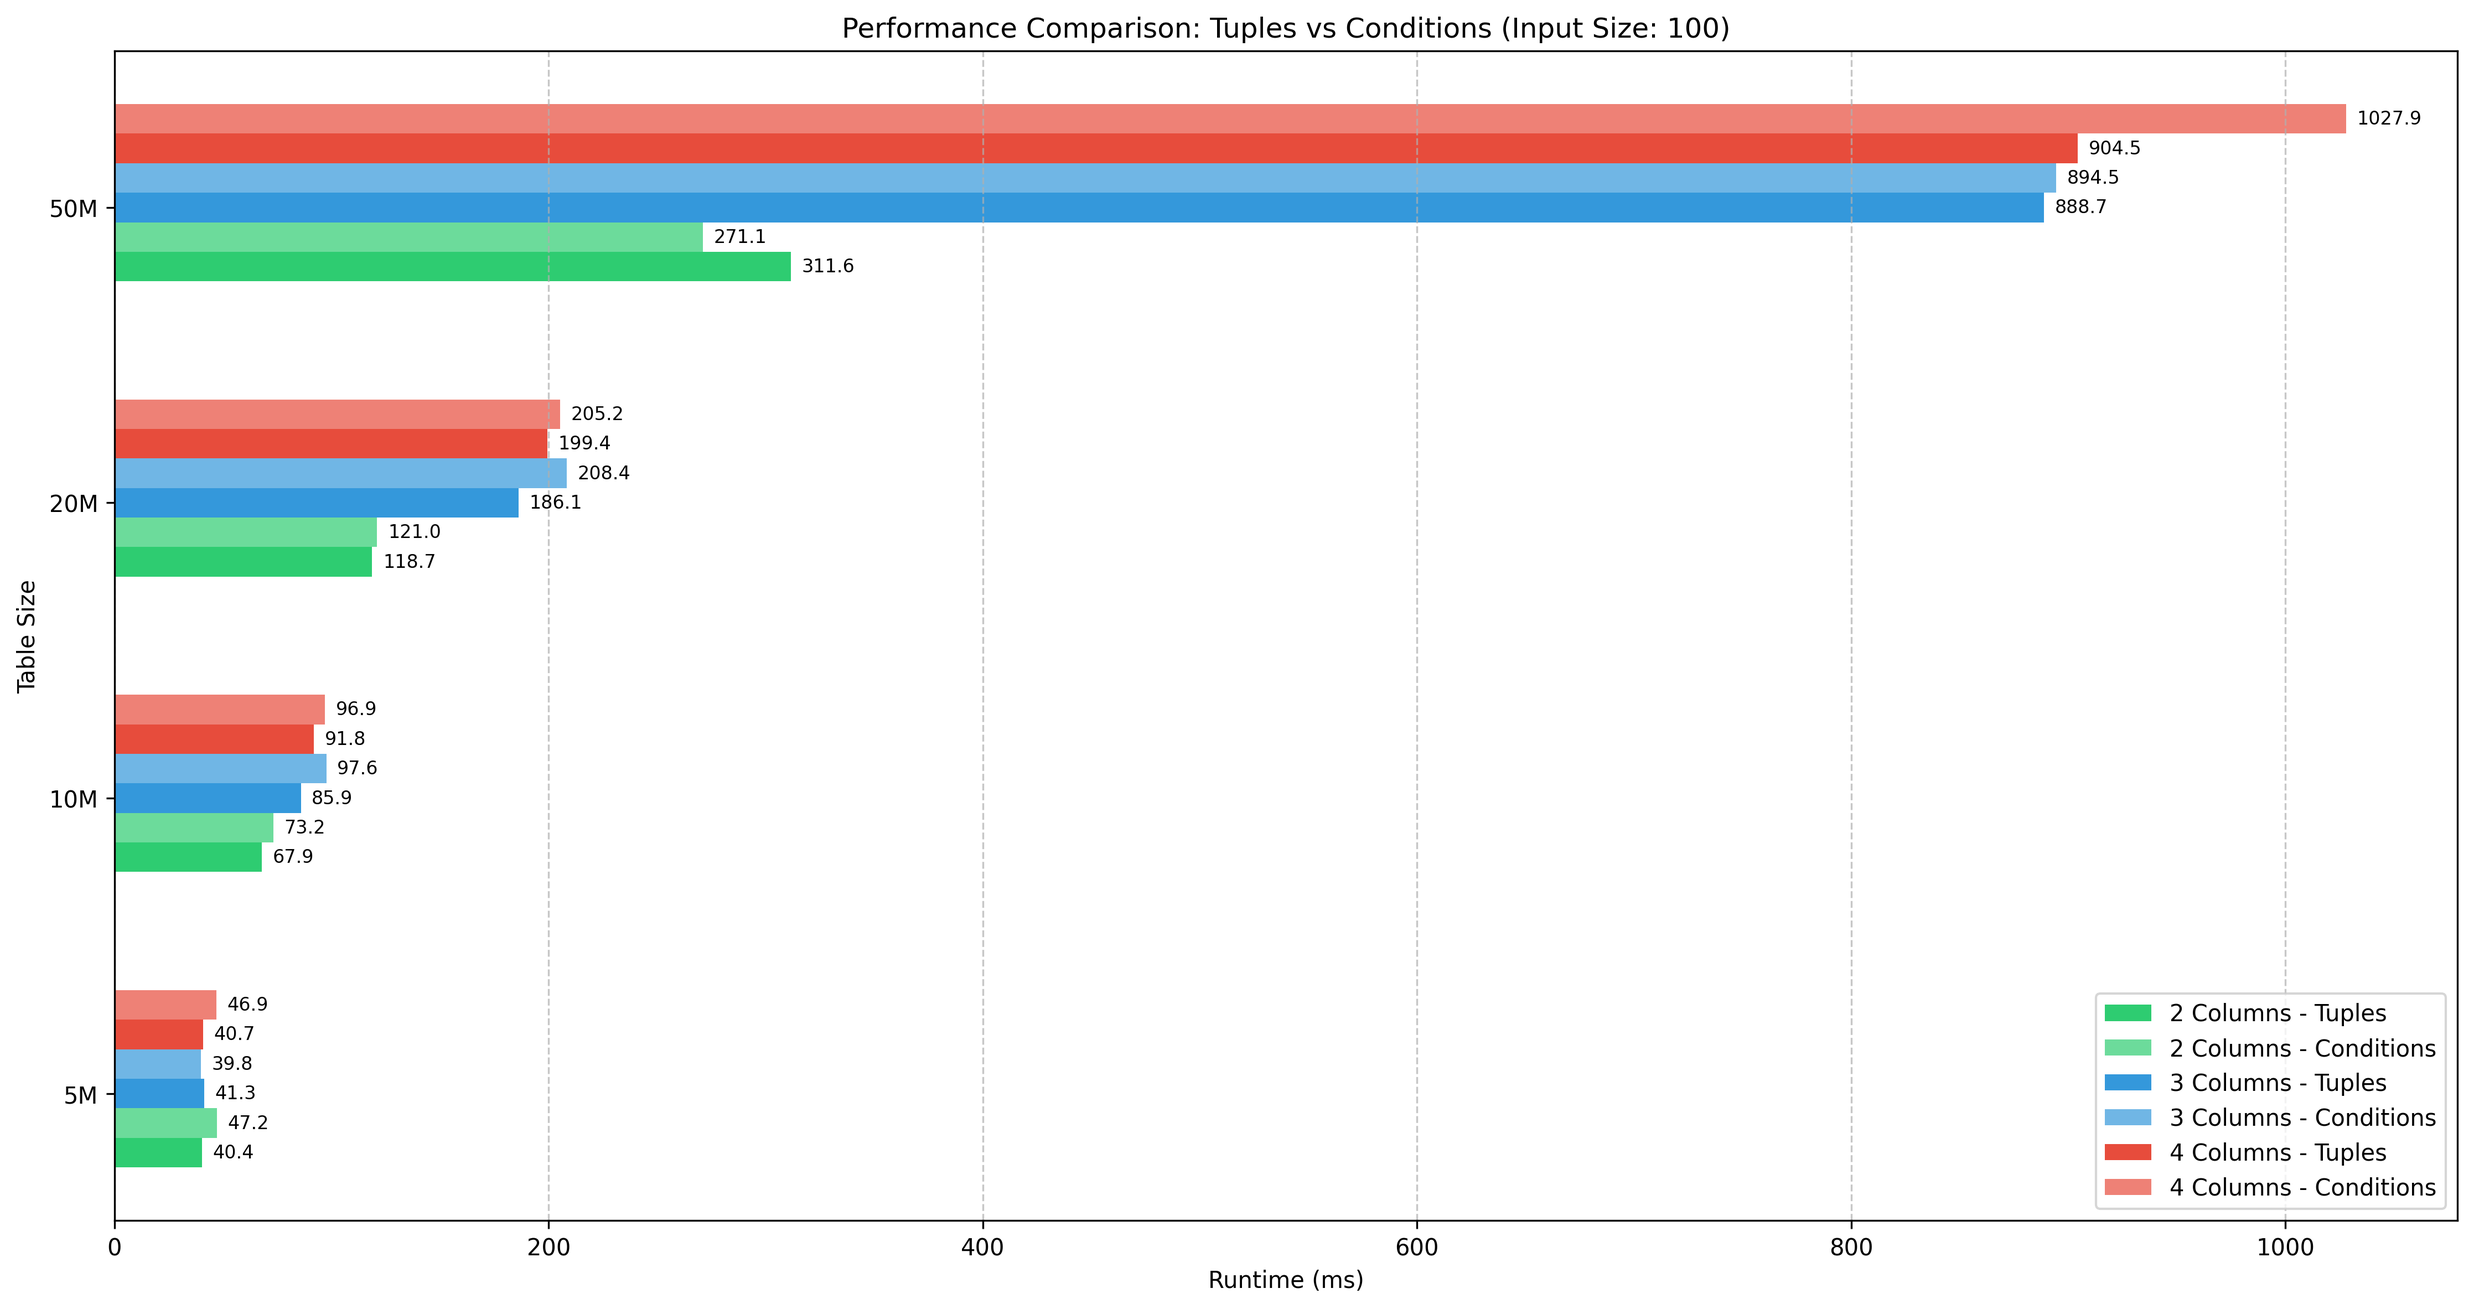
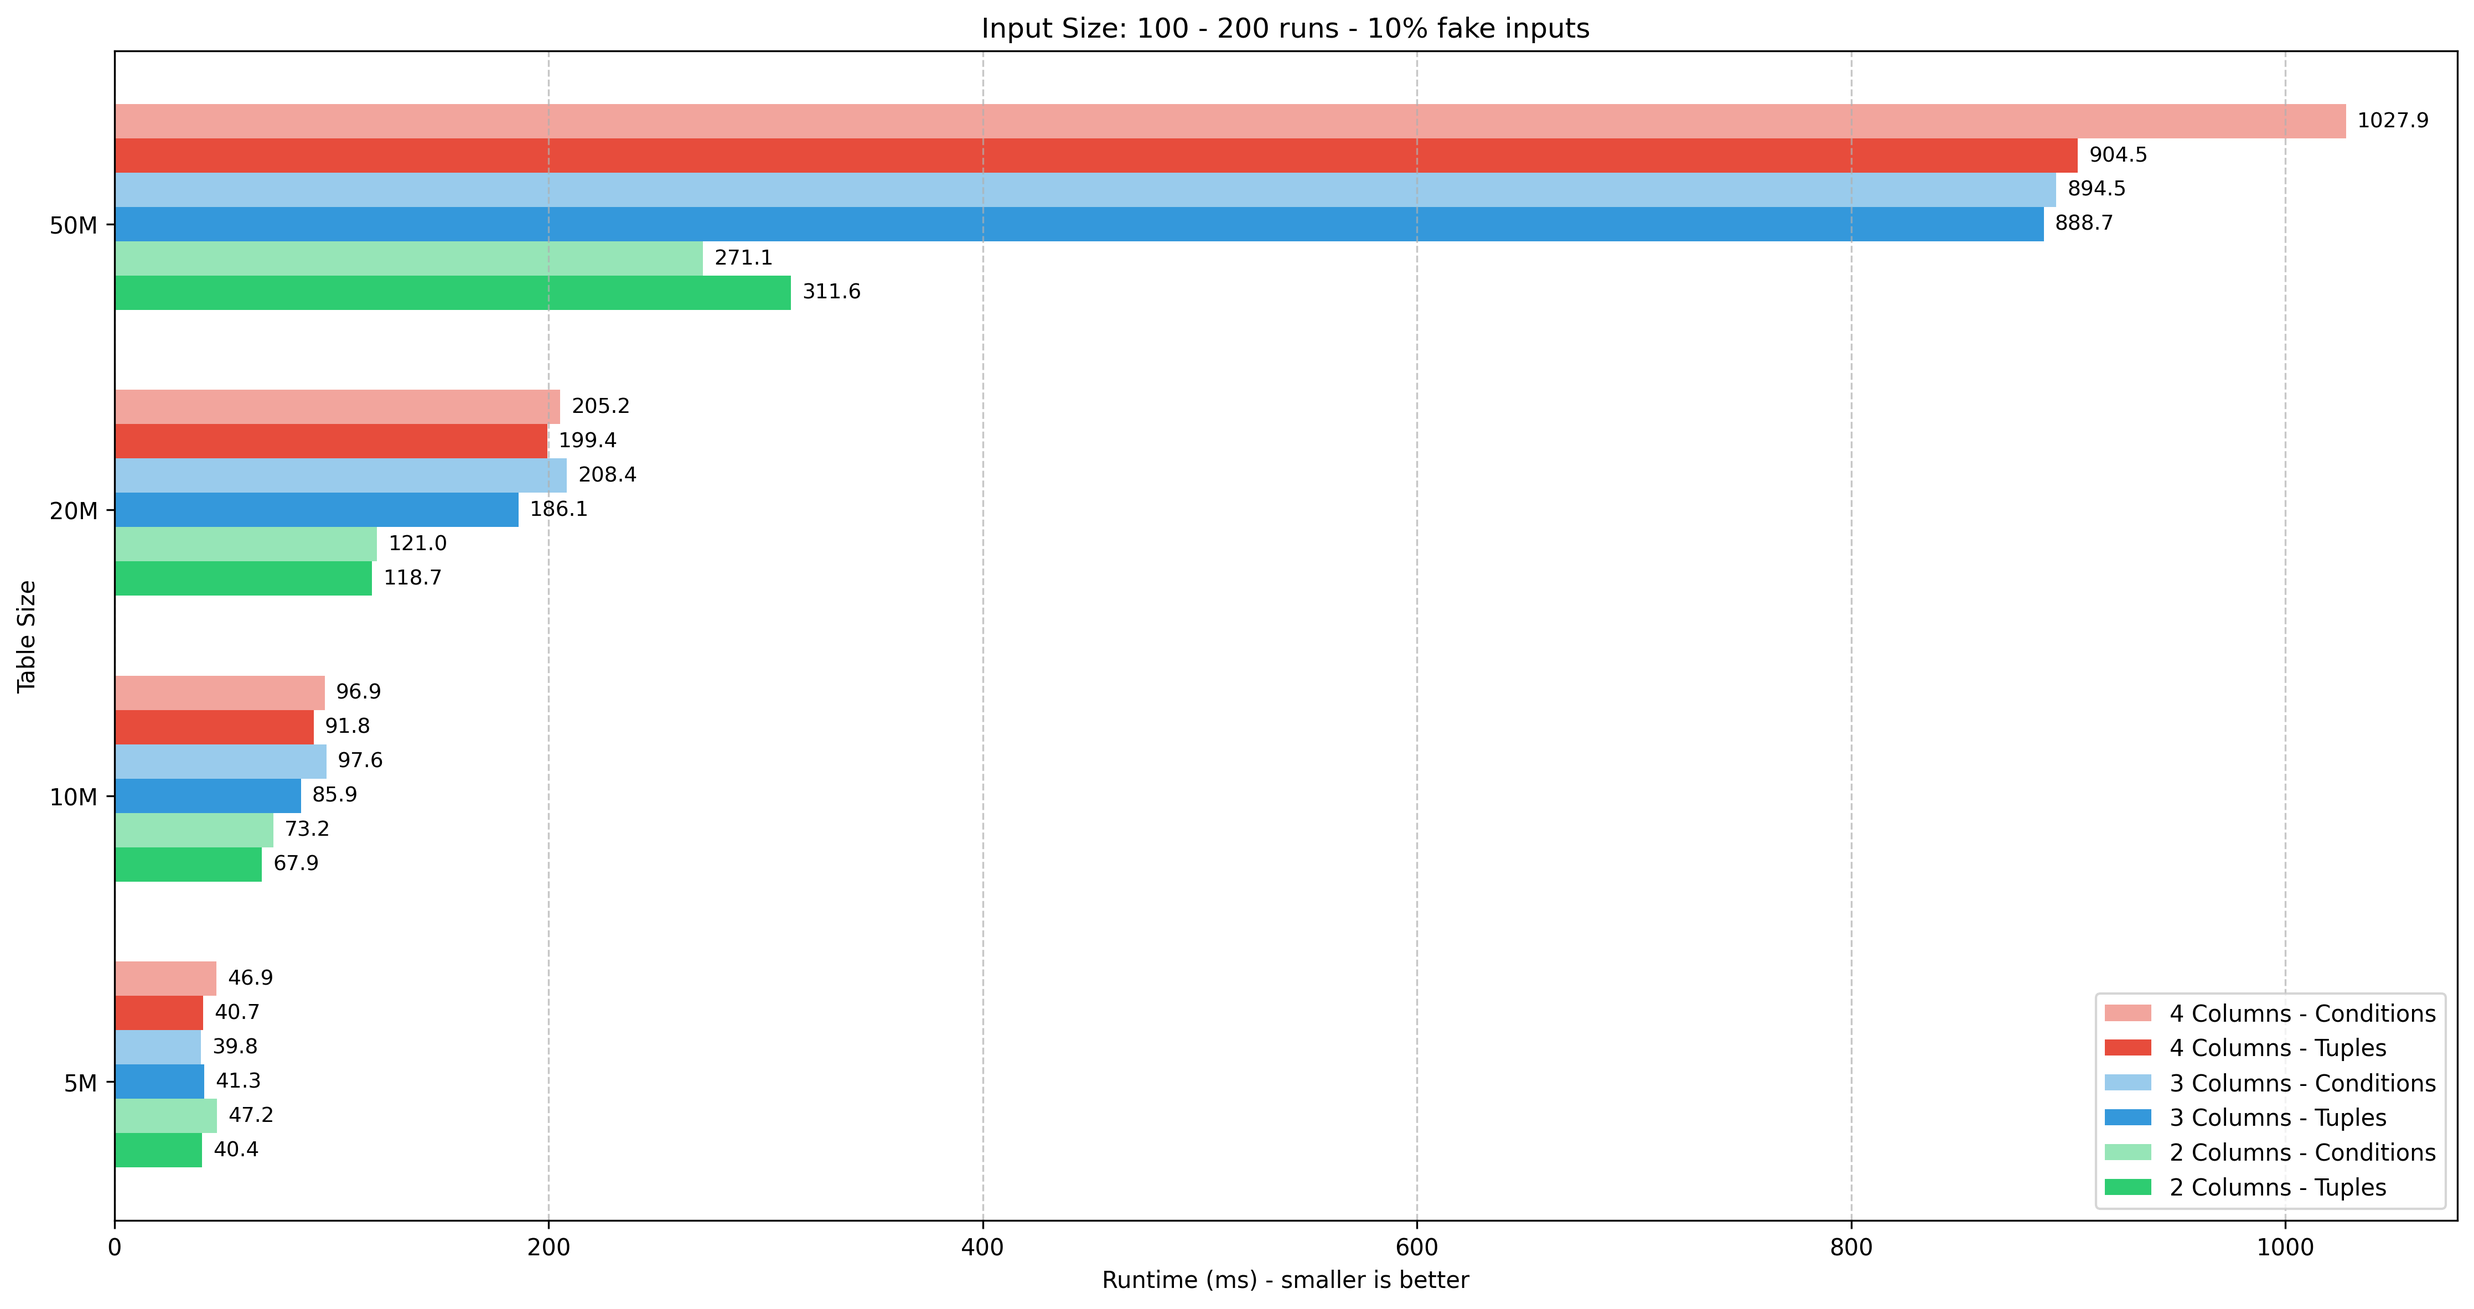
gg

diff --git a/_posts/2025-05-01-tuples-filter-on-multi-columns-with-django-orm.md b/_posts/2025-05-01-tuples-filter-on-multi-columns-with-django-orm.md
@@ -359,79 +359,45 @@ Each following section will show the results for a specific input size (100 / 20
 
 ![100 tuples](/assets/img/posts/2025-05-01-tuples-filter-on-multi-columns-with-django-orm/performance_comparison_input100.png)
 
-![100 tuples](/assets/img/posts/2025-05-01-tuples-filter-on-multi-columns-with-django-orm/plot_experiments_200runs_10fake_100size_2cols.png)
-_Filter on 2 columns_
-
-![100 tuples](/assets/img/posts/2025-05-01-tuples-filter-on-multi-columns-with-django-orm/plot_experiments_200runs_10fake_100size_3cols.png)
-_Filter on 3 columns_
-
-![100 tuples](/assets/img/posts/2025-05-01-tuples-filter-on-multi-columns-with-django-orm/plot_experiments_200runs_10fake_100size_4cols.png)
-_Filter on 4 columns_
-
-### Input size: 200 tuples
-
-![200 tuples](/assets/img/posts/2025-05-01-tuples-filter-on-multi-columns-with-django-orm/plot_experiments_200runs_10fake_200size_2cols.png)
-_Filter on 2 columns_
-
-![200 tuples](/assets/img/posts/2025-05-01-tuples-filter-on-multi-columns-with-django-orm/plot_experiments_200runs_10fake_200size_3cols.png)
-_Filter on 3 columns_
-
-![200 tuples](/assets/img/posts/2025-05-01-tuples-filter-on-multi-columns-with-django-orm/plot_experiments_200runs_10fake_200size_4cols.png)
-_Filter on 4 columns_
-
-### Input size: 500 tuples
-
-![500 tuples](/assets/img/posts/2025-05-01-tuples-filter-on-multi-columns-with-django-orm/plot_experiments_200runs_10fake_500size_2cols.png)
-_Filter on 2 columns_
-
-![500 tuples](/assets/img/posts/2025-05-01-tuples-filter-on-multi-columns-with-django-orm/plot_experiments_200runs_10fake_500size_3cols.png)
-_Filter on 3 columns_
-
-![500 tuples](/assets/img/posts/2025-05-01-tuples-filter-on-multi-columns-with-django-orm/plot_experiments_200runs_10fake_500size_4cols.png)
-_Filter on 4 columns_
-
-### Input size: 1000 tuples
-
-![1000 tuples](/assets/img/posts/2025-05-01-tuples-filter-on-multi-columns-with-django-orm/plot_experiments_200runs_10fake_1000size_2cols.png)
-_Filter on 2 columns_
-
-# Experiment Results
-
-## Input Size: 100
-
 | Columns        | 2                                      |                                        |                                         |                                         | 3                                      |                                        |                                         |                                         | 4                                      |                                        |                                         |                                         |
 | -------------- | -------------------------------------- | -------------------------------------- | --------------------------------------- | --------------------------------------- | -------------------------------------- | -------------------------------------- | --------------------------------------- | --------------------------------------- | -------------------------------------- | -------------------------------------- | --------------------------------------- | --------------------------------------- |
 | **Table size** | 5M                                     | 10M                                    | 20M                                     | 50M                                     | 5M                                     | 10M                                    | 20M                                     | 50M                                     | 5M                                     | 10M                                    | 20M                                     | 50M                                     |
 | **Tuples**     | <span style="color:green">40.37</span> | <span style="color:green">67.86</span> | <span style="color:green">118.68</span> | <span style="color:red">311.60</span>   | <span style="color:green">41.27</span> | <span style="color:green">85.86</span> | <span style="color:green">186.11</span> | <span style="color:green">888.73</span> | <span style="color:green">40.74</span> | <span style="color:green">91.80</span> | <span style="color:green">199.40</span> | <span style="color:green">904.46</span> |
 | **Conditions** | <span style="color:red">47.17</span>   | <span style="color:red">73.25</span>   | <span style="color:red">120.98</span>   | <span style="color:green">271.15</span> | <span style="color:red">39.84</span>   | <span style="color:red">97.60</span>   | <span style="color:red">208.38</span>   | <span style="color:red">894.51</span>   | <span style="color:red">46.88</span>   | <span style="color:red">96.88</span>   | <span style="color:red">205.20</span>   | <span style="color:red">1027.91</span>  |
-| **Gain %**     | <span style="color:red">+16.8%</span>  | <span style="color:red">+7.9%</span>   | <span style="color:red">+1.9%</span>    | <span style="color:green">-13.0%</span> | <span style="color:green">-3.5%</span> | <span style="color:red">+13.7%</span>  | <span style="color:red">+12.0%</span>   | <span style="color:green">-0.6%</span>  | <span style="color:red">+15.1%</span>  | <span style="color:red">+5.5%</span>   | <span style="color:red">+2.9%</span>    | <span style="color:red">+13.6%</span>   |
+| **% Diff**     | <span style="color:red">+16.8%</span>  | <span style="color:red">+7.9%</span>   | <span style="color:red">+1.9%</span>    | <span style="color:green">-13.0%</span> | <span style="color:green">-3.5%</span> | <span style="color:red">+13.7%</span>  | <span style="color:red">+12.0%</span>   | <span style="color:green">-0.6%</span>  | <span style="color:red">+15.1%</span>  | <span style="color:red">+5.5%</span>   | <span style="color:red">+2.9%</span>    | <span style="color:red">+13.6%</span>   |
 
-## Input Size: 200
+### Input size: 200 tuples
+
+![200 tuples](/assets/img/posts/2025-05-01-tuples-filter-on-multi-columns-with-django-orm/performance_comparison_input200.png)
 
 | Columns        | 2                                      |                                        |                                         |                                         | 3                                      |                                         |                                         |                                          | 4                                      |                                         |                                         |                                          |
 | -------------- | -------------------------------------- | -------------------------------------- | --------------------------------------- | --------------------------------------- | -------------------------------------- | --------------------------------------- | --------------------------------------- | ---------------------------------------- | -------------------------------------- | --------------------------------------- | --------------------------------------- | ---------------------------------------- |
 | **Table size** | 5M                                     | 10M                                    | 20M                                     | 50M                                     | 5M                                     | 10M                                     | 20M                                     | 50M                                      | 5M                                     | 10M                                     | 20M                                     | 50M                                      |
 | **Tuples**     | <span style="color:green">16.00</span> | <span style="color:green">75.47</span> | <span style="color:red">220.84</span>   | <span style="color:red">457.63</span>   | <span style="color:green">78.35</span> | <span style="color:green">183.72</span> | <span style="color:red">515.70</span>   | <span style="color:red">6330.45</span>   | <span style="color:green">79.60</span> | <span style="color:green">183.50</span> | <span style="color:green">537.60</span> | <span style="color:red">6132.87</span>   |
 | **Conditions** | <span style="color:red">47.09</span>   | <span style="color:red">118.30</span>  | <span style="color:green">204.22</span> | <span style="color:green">439.38</span> | <span style="color:red">81.92</span>   | <span style="color:red">187.51</span>   | <span style="color:green">499.34</span> | <span style="color:green">6019.89</span> | <span style="color:red">88.23</span>   | <span style="color:red">204.45</span>   | <span style="color:red">551.31</span>   | <span style="color:green">5892.50</span> |
-| **Gain %**     | <span style="color:red">+194.3%</span> | <span style="color:red">+56.8%</span>  | <span style="color:green">-7.5%</span>  | <span style="color:green">-4.0%</span>  | <span style="color:red">+4.6%</span>   | <span style="color:red">+2.1%</span>    | <span style="color:green">-3.2%</span>  | <span style="color:green">-4.9%</span>   | <span style="color:red">+10.8%</span>  | <span style="color:red">+11.4%</span>   | <span style="color:green">-2.6%</span>  | <span style="color:green">-3.9%</span>   |
+| **Diff %**     | <span style="color:red">+194.3%</span> | <span style="color:red">+56.8%</span>  | <span style="color:green">-7.5%</span>  | <span style="color:green">-4.0%</span>  | <span style="color:red">+4.6%</span>   | <span style="color:red">+2.1%</span>    | <span style="color:green">-3.2%</span>  | <span style="color:green">-4.9%</span>   | <span style="color:red">+10.8%</span>  | <span style="color:red">+11.4%</span>   | <span style="color:green">-2.6%</span>  | <span style="color:green">-3.9%</span>   |
 
-## Input Size: 500
+### Input size: 500 tuples
+
+![500 tuples](/assets/img/posts/2025-05-01-tuples-filter-on-multi-columns-with-django-orm/performance_comparison_input500.png)
 
 | Columns        | 2                                       |                                         |                                         |                                          | 3                                       |                                         |                                          |                                           | 4                                       |                                         |                                          |                                           |
 | -------------- | --------------------------------------- | --------------------------------------- | --------------------------------------- | ---------------------------------------- | --------------------------------------- | --------------------------------------- | ---------------------------------------- | ----------------------------------------- | --------------------------------------- | --------------------------------------- | ---------------------------------------- | ----------------------------------------- |
 | **Table size** | 5M                                      | 10M                                     | 20M                                     | 50M                                      | 5M                                      | 10M                                     | 20M                                      | 50M                                       | 5M                                      | 10M                                     | 20M                                      | 50M                                       |
 | **Tuples**     | <span style="color:red">101.41</span>   | <span style="color:green">445.00</span> | <span style="color:green">874.98</span> | <span style="color:green">1612.65</span> | <span style="color:green">498.82</span> | <span style="color:red">875.42</span>   | <span style="color:red">6873.76</span>   | <span style="color:green">28418.94</span> | <span style="color:green">631.32</span> | <span style="color:green">976.52</span> | <span style="color:green">7014.91</span> | <span style="color:green">30605.16</span> |
 | **Conditions** | <span style="color:green">88.00</span>  | <span style="color:red">453.16</span>   | <span style="color:red">894.18</span>   | <span style="color:red">1813.69</span>   | <span style="color:red">511.50</span>   | <span style="color:green">870.41</span> | <span style="color:green">6816.49</span> | <span style="color:red">28647.71</span>   | <span style="color:red">641.60</span>   | <span style="color:red">987.06</span>   | <span style="color:red">7167.83</span>   | <span style="color:red">31366.24</span>   |
-| **Gain %**     | <span style="color:green">-13.2%</span> | <span style="color:red">+1.8%</span>    | <span style="color:red">+2.2%</span>    | <span style="color:red">+12.5%</span>    | <span style="color:red">+2.5%</span>    | <span style="color:green">-0.6%</span>  | <span style="color:green">-0.8%</span>   | <span style="color:red">+0.8%</span>      | <span style="color:red">+1.6%</span>    | <span style="color:green">-1.1%</span>  | <span style="color:green">-2.2%</span>   | <span style="color:red">+2.5%</span>      |
+| **Diff %**     | <span style="color:green">-13.2%</span> | <span style="color:red">+1.8%</span>    | <span style="color:red">+2.2%</span>    | <span style="color:red">+12.5%</span>    | <span style="color:red">+2.5%</span>    | <span style="color:green">-0.6%</span>  | <span style="color:green">-0.8%</span>   | <span style="color:red">+0.8%</span>      | <span style="color:red">+1.6%</span>    | <span style="color:green">-1.1%</span>  | <span style="color:green">-2.2%</span>   | <span style="color:red">+2.5%</span>      |
 
-## Input Size: 1000
+### Input size: 1000 tuples
+
+![1000 tuples](/assets/img/posts/2025-05-01-tuples-filter-on-multi-columns-with-django-orm/performance_comparison_input1000.png)
 
 | Columns        | 2                                       |                                          |                                          |                                           |
 | -------------- | --------------------------------------- | ---------------------------------------- | ---------------------------------------- | ----------------------------------------- |
 | **Table size** | 5M                                      | 10M                                      | 20M                                      | 50M                                       |
 | **Tuples**     | <span style="color:red">840.32</span>   | <span style="color:green">3151.48</span> | <span style="color:red">5561.74</span>   | <span style="color:red">14645.16</span>   |
 | **Conditions** | <span style="color:green">824.89</span> | <span style="color:red">3291.13</span>   | <span style="color:green">5348.29</span> | <span style="color:green">14064.40</span> |
-| **Gain %**     | <span style="color:green">-1.8%</span>  | <span style="color:red">+4.4%</span>     | <span style="color:green">-3.8%</span>   | <span style="color:green">-4.0%</span>    |
+| **Diff %**     | <span style="color:green">-1.8%</span>  | <span style="color:red">+4.4%</span>     | <span style="color:green">-3.8%</span>   | <span style="color:green">-4.0%</span>    |
 
 ## Notes
 
